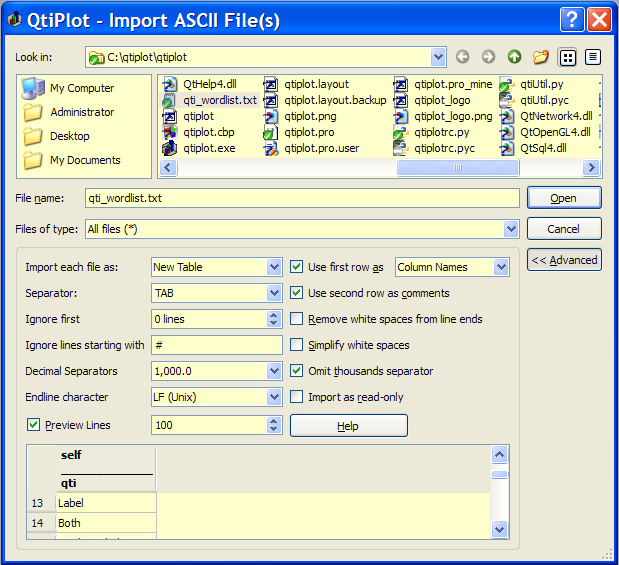
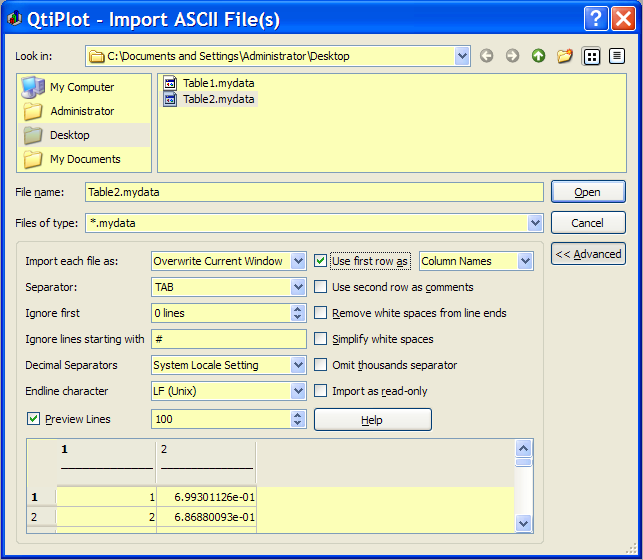
Improved import ASCII wizard.
git-svn-id: http://svn.berlios.de/svnroot/repos/qtiplot/trunk@1638 5a6a7de5-fb12-0410-b871-c33778c25c60

Changed region(s): [[0.0, 0.0, 1.0, 1.0]]

diff --git a/qtiplot/src/core/ImportASCIIDialog.cpp b/qtiplot/src/core/ImportASCIIDialog.cpp
@@ -52,15 +52,6 @@ ImportASCIIDialog::ImportASCIIDialog(bool new_windows_only, QWidget * parent, bo
 : ExtensibleFileDialog(parent, extended, flags )
 {
 	setWindowTitle(tr("QtiPlot - Import ASCII File(s)"));
-
-	QStringList filters;
-	filters << tr("All files") + " (*)";
-	filters << tr("Text files") + " (*.TXT *.txt)";
-	filters << tr("Data files") + " (*.DAT *.dat)";
-	filters << tr("Comma Separated Values") + " (*.CSV *.csv)";
-	setFilters( filters );
-	setEditableFilter();
-
 	setFileMode( QFileDialog::ExistingFiles );
 
 	d_current_path = QString::null;
@@ -538,6 +529,23 @@ void ImportASCIIDialog::enableComments()
 {
 	d_import_comments->setEnabled(d_rename_columns->isChecked() &&
 								!d_first_line_role->currentIndex());
+}
+
+void ImportASCIIDialog::selectFilter(const QString & filter)
+{
+	QStringList filters;
+	filters << tr("All files") + " (*)";
+	filters << tr("Text files") + " (*.TXT *.txt)";
+	filters << tr("Data files") + " (*.DAT *.dat)";
+	filters << tr("Comma Separated Values") + " (*.CSV *.csv)";
+
+	if (!filters.contains(filter))
+		filters << filter;
+
+	setFilters(filters);
+	setEditableFilter();
+
+	QFileDialog::selectFilter(filter);
 }
 
 /*****************************************************************************

diff --git a/qtiplot/src/core/globals.h b/qtiplot/src/core/globals.h
@@ -38,4 +38,4 @@ const char * extra_version = ".13";
 //! Copyright string containing the author names
 const char * copyright_string = "Copyright (C) 2004-2010 Ion Vasilief";
 //! Release date as a string
-const char * release_date = " 2010/03/16";
+const char * release_date = " 2010/03/17";

diff --git a/qtiplot/src/core/ImportASCIIDialog.h b/qtiplot/src/core/ImportASCIIDialog.h
@@ -147,6 +147,8 @@ public:
 	//! Returns the convention used for the end line character!
 	inline int endLineChar(){return boxEndLine->currentIndex();};
 
+	void selectFilter(const QString & filter);
+
 private slots:
 	//! Display help for advanced options.
 	void displayHelp();
